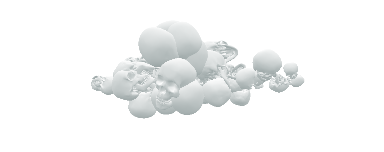
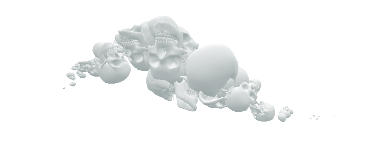
added bezier paths to animate skulls from left to right.

Changed region(s): [[0.1562, 0.1053, 0.8125, 0.8158], [0.8125, 0.7632, 0.8438, 0.7895]]

diff --git a/src/scripts/sketch.js b/src/scripts/sketch.js
@@ -6,8 +6,11 @@
 			camera = three.camera(),
 			renderer = three.renderer(),
 			skulls = [],
+			curve,
+			t = 0.002,
 
 			init = function(){
+				
 				var directionalLight = new THREE.DirectionalLight( 0xfffffff ),
 					reflectedLight =  new THREE.DirectionalLight( 0xeeffff, 0.65 );
 
@@ -19,30 +22,56 @@
 
 				renderer.setClearColor( 0xffffff );
 
-				camera.position.z = 25;
+				camera.position.z = 15;
+				camera.lookAt(new THREE.Vector3(0, 2, 0))
 
 				new THREE.OBJLoader().load('skull.obj', populateScene);
 
 			},
 
 			populateScene = function(skull){
+				
 				skull.children[0].material = new THREE.MeshLambertMaterial({wrapAround: true});
+				skull.children[0].position.y = -2.5;
+				skull.children[0].rotation.x = 0.2;
+				
 				for (var i = 0; i < 40; i++) {
 					var currentSkull = skull.clone();
-					currentSkull.position.x = Math.random() * 40 - 20;
-					currentSkull.position.y = ( Math.random() * 10 - 5 ) * ( 1 - Math.abs( currentSkull.position.x/25 ) );
-					currentSkull.position.z = ( Math.random() * 10 - 5 ) * ( 1 - Math.abs( currentSkull.position.x/25 ) );
-					currentSkull.scale.multiplyScalar(0.1 + Math.sin( 1 - ( Math.abs( currentSkull.position.x/25 ) ) ) );
-					currentSkull.children[0].rotation.set( Math.random() * ( Math.PI * 2 ), Math.random() * ( Math.PI * 2 ), 0)
 					scene.add(currentSkull);
-					skulls.push({container:currentSkull, rotationVelocity: Math.random() * 0.001});
+					var curve = new THREE.CubicBezierCurve3(
+						new THREE.Vector3( -15, 0, 0 ),
+						new THREE.Vector3( -7 + ( Math.random() * 10 - 5 ), 15 + ( Math.random() * 10 - 5 ), Math.random() * 6 - 3 ),
+						new THREE.Vector3( 10, -10, Math.random() * 6 - 3 ),
+						new THREE.Vector3( 20, 0, 0 )
+					);
+					var rot = Math.random() * Math.PI * 2;
+					skull.rotation.set(rot, rot, rot);
+					skulls.push({container:currentSkull, rotationVelocity: 0.0005 + Math.random()*0.001, time:Math.random(), curve:curve});
 				};
+				
 			},
 			
 			update = function(timestep){
+
+				var scale;
+
 				skulls.forEach( function( skull ){
+					skull.time += t;
+					if(skull.time > 1){
+						skull.time = 0.01;
+					}
+					skull.container.position.copy(skull.curve.getPoint(skull.time));
+
+					if(skull.time < 0.5){
+						scale = skull.time * 2;
+					}else{
+						scale = Math.pow( 1 - ( ( skull.time - 0.5 ) * 2 ), 4 );
+					}
+					skull.container.scale.set(scale, scale, scale)
+
 					skull.container.rotation.x += skull.rotationVelocity * timestep;
 					skull.container.rotation.y += skull.rotationVelocity * timestep;
+					
 				} );
 			},
 			
